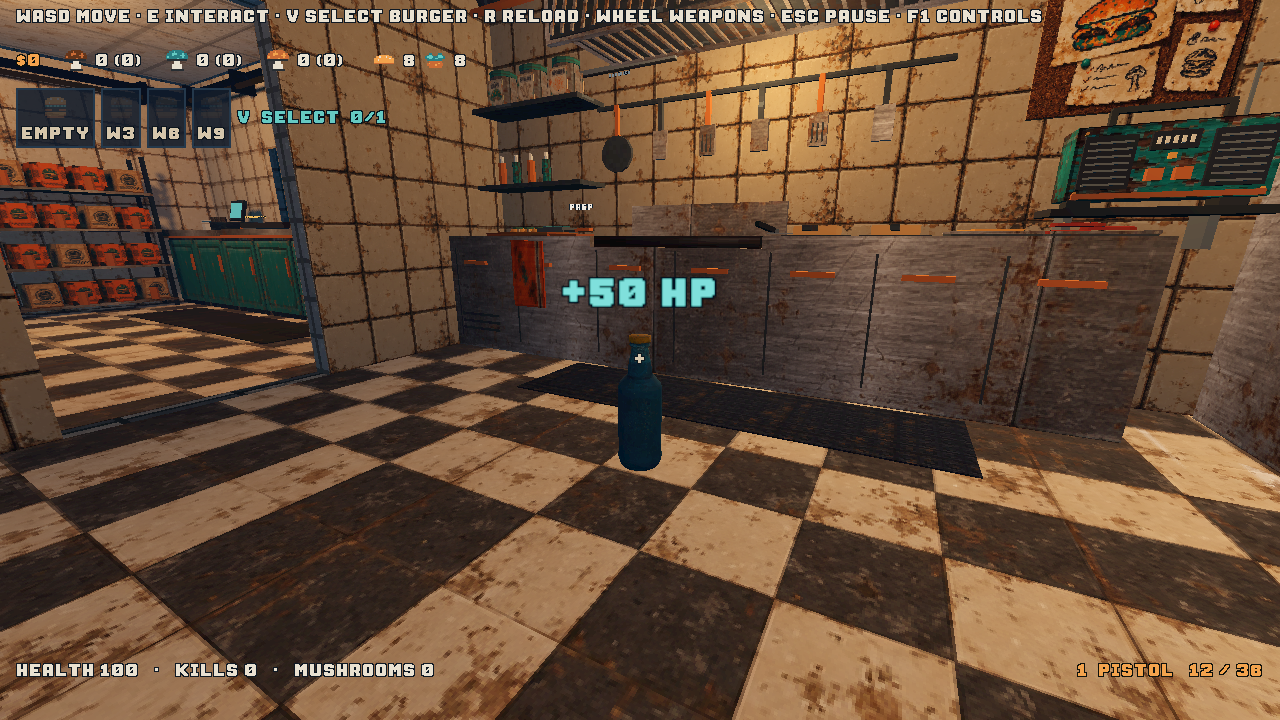
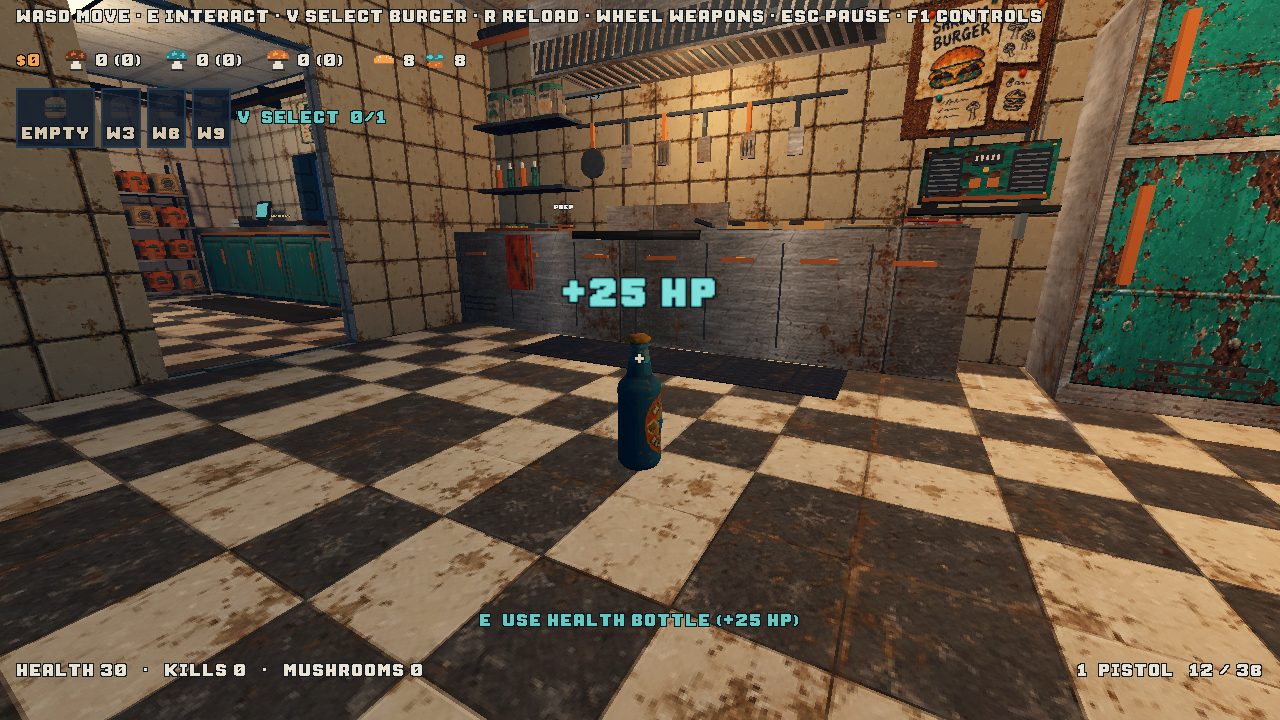
Require E to use 25 HP bottles with a 7.5 percent death drop roll
Keep landed bottles stationary and exclude them from F2 auto-collect. Recheck aim/range/occlusion, preserve full-health bottles and clear focus on use. Import/check-only, validate and all 28 test suites pass; native E interaction/HUD and required room/weapon captures inspected.

diff --git a/docs/handover/HEALTH_BOTTLE.md b/docs/handover/HEALTH_BOTTLE.md
@@ -1,26 +1,11 @@
-# Rare health bottle
+# Health bottle
 
-Each zombie death independently rolls randf() < health_drop_chance (default 0.10)
-once when the death is reported. A successful roll adds a bottle after the same
-short drop delay as the mushroom; the ordinary mushroom is always preserved.
-Shamblers, Scuttlers and Lancers all use this shared death path. It is a chance,
-not a guaranteed drop every tenth kill.
+Each zombie death independently rolls randf() < health_drop_chance (default 0.075, or 7.5%) once when death is reported. Success adds a bottle after the ordinary mushroom drop delay. The mushroom is always preserved, and all enemy types share this death path.
 
-Walking near a landed bottle collects it immediately for up to 50 HP. Health caps
-at max_health; full-health players leave it available and dead players cannot be
-revived. HUD health updates through the existing signal, +HP toast shows the actual
-amount gained, and normal pickup feedback remains active. Nearby bottles follow
-the same clear-line/window magnet rules as mushrooms; F2 auto-collect is respected.
-Health bottles use a separate health_pickups group so cooking inventory and
-mushroom accounting remain unchanged. There is no inventory item or drinking key.
+A landed bottle stays in place, spinning/bobbing with a +25 HP label. Look at it within the normal 2.3 m interaction reach and press E to immediately restore up to 25 HP. The existing station look-ray and HUD prompt are used; the bottle rechecks aim, range and world occlusion at use time. It cannot be used during its drop animation, through walls, by dead players, or when already taken. At full health it displays HEALTH FULL and remains available. Healing caps at max_health; the toast shows the actual amount gained.
 
-Owner GLB source is preserved untouched. tools/build_health_bottle.gd produces a
-0.38 m mesh (518 vertices) with the supplied blue texture reduced to 512 pixels
-and mipmapped. Pickup spins/bobs and has a +50 HP label, without extra lights or
-shadows. Use the Vulkan launcher confirmed smooth by the owner.
+Proximity, magnet movement and F2 auto-collect never consume or attract health bottles. Mushroom pickup behaviour is unchanged. Health bottles retain the separate health_pickups group and do not enter cooking inventory. Successful use clears focus before freeing the bottle, preventing a stale prompt reference.
 
-Verification: all 25 suites, import and touched-script checks. Health tests cover
-exact/capped healing, no full-health waste, no double-use/revival, automatic
-collection, all enemy death types, forced success/failure roll boundaries and
-preserved mushrooms. Native Vulkan capture verifies automatic collection and
-immediate HUD update. Bottle and required room/weapon renders were inspected.
+Owner GLB source is preserved untouched. tools/build_health_bottle.gd produces the supplied blue bottle mesh; no extra lights or shadows are added.
+
+Verification: tools/health_pickup_test.gd checks the 7.5% default, E input through the actual focus ray, 25 HP and capped healing, no full-health waste, no double-use/revival, no proximity/F2 collection, aim/range/wall rejection, all enemy death types, forced roll boundaries and preserved mushrooms. tools/capture_health_bottle.gd verifies the native E prompt, no proximity healing, 25 HP on E and immediate HUD update. Full regression suites and required native room/weapon renders also run before publication.

diff --git a/docs/handover/HOLLOWHEAD.md b/docs/handover/HOLLOWHEAD.md
@@ -32,7 +32,7 @@ H manually spawns one through the same capped path for testing.
 - Death releases a 1.6 s spore cloud. Within 1.7 m of the chest, with an unobstructed
   line, it deals 3 HP once and briefly tints/obscures vision. Nearby zombies become
   agitated for six seconds. Owner explicitly deferred infection progression.
-- Normal mushroom, kill cash, wave clearing and independent 10% health-bottle roll
+- Normal mushroom, kill cash, wave clearing and independent 7.5% health-bottle roll
   use the shared death path.
 
 ## Asset / performance
